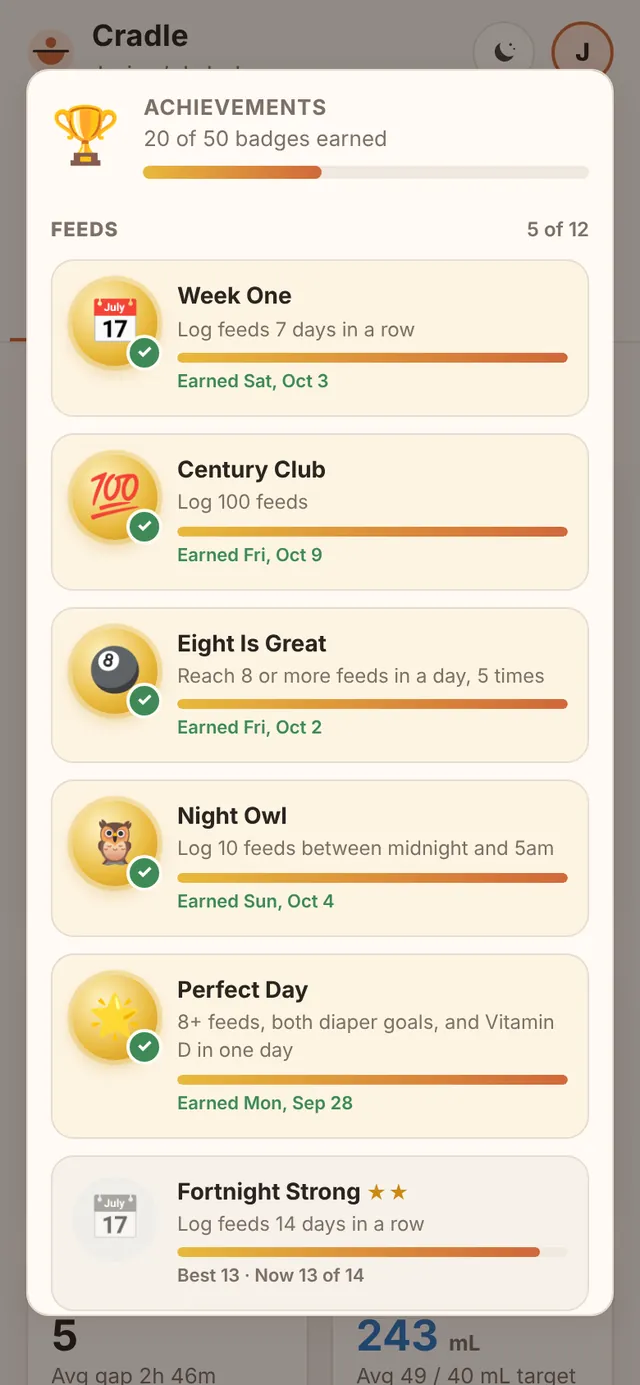
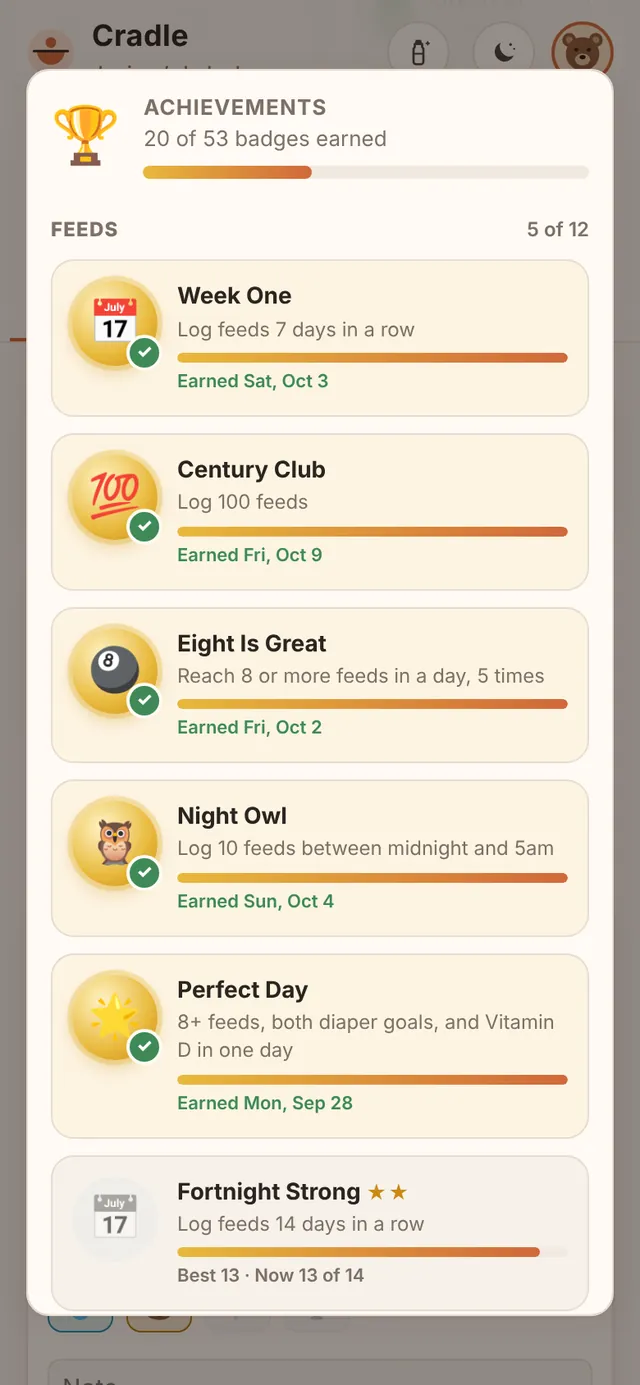
Overview: an app preview, not a triple-feeding explainer
- Hero: "The baby log the whole family shares", with History, the Log
  (center), and the Dashboard
- "What's inside": nine feature cards replace the triple-feed section
- Fun center figure stacks Stork Flight, Daily Word, and Bottle Catch
- New screenshots: bottle, stork, achievements (53); take.mjs retakes them
- Phones in the screenshot grid line up at the same height

Claude-Session: https://claude.ai/code/session_01C2LP9XX3HMhgrsmSLqk1xr

diff --git a/docs/overview.html b/docs/overview.html
@@ -78,15 +78,11 @@ a:focus-visible,button:focus-visible{outline:3px solid var(--accent); outline-of
   .fan:hover .p3{transform:translateX(66%) rotate(9deg) translateY(10px)}
 }
 
-/* triple-feed cycle */
-.cycle{display:grid; grid-template-columns:repeat(3,minmax(0,1fr)); gap:clamp(12px,2vw,20px); counter-reset:step}
-.step{background:var(--panel); border:1px solid var(--line); border-radius:20px; padding:24px; display:grid; gap:10px; position:relative}
-.step .num{font:700 13px/1 var(--mono); color:var(--muted)}
-.step .big{font:800 clamp(40px,5vw,56px)/1 var(--display); letter-spacing:-.03em}
-.step:nth-child(1) .big{color:var(--accent)} .step:nth-child(2) .big{color:var(--bottle)} .step:nth-child(3) .big{color:var(--pump)}
-.step p{color:var(--muted); font-size:15px}
-.row-demo{margin-top:clamp(20px,3vw,28px); background:var(--panel); border:1px solid var(--line); border-radius:16px; padding:14px 18px; display:flex; flex-wrap:wrap; gap:10px 18px; align-items:center; font-size:14px}
-.row-demo .t{font:700 15px/1 var(--mono)}
+/* features */
+.feats{display:grid; grid-template-columns:repeat(3,minmax(0,1fr)); gap:clamp(12px,2vw,20px)}
+.feat{background:var(--panel); border:1px solid var(--line); border-radius:20px; padding:22px; display:grid; gap:8px; align-content:start}
+.feat .fi{font-size:28px; line-height:1}
+.feat p{color:var(--muted); font-size:15px}
 .tag{display:inline-flex; align-items:center; gap:6px; padding:6px 10px; border-radius:10px; background:var(--panel2); font-weight:600}
 .tag.b{color:var(--bottle)} .tag.p{color:var(--pump)} .tag.w{color:var(--wet)} .tag.s{color:var(--stool)} .tag.a{color:var(--accent-ink)} .tag.v{color:var(--sun)}
 
@@ -106,10 +102,17 @@ a:focus-visible,button:focus-visible{outline:3px solid var(--accent); outline-of
 
 /* screens gallery */
 .screens{display:grid; grid-template-columns:repeat(4,minmax(0,1fr)); gap:clamp(18px,3vw,32px) clamp(14px,2.4vw,28px)}
-.screens figure{margin:0; display:grid; justify-items:center; text-align:center}
+.screens figure{margin:0; display:grid; justify-items:center; align-content:start; text-align:center}
+.screens .phone{align-self:start}
 .screens .phone{--w:100%; width:100%; border-radius:30px; padding:8px}
 .screens .phone img{border-radius:23px}
 .screens .cap{margin-inline:auto}
+.pstack{position:relative; width:100%; aspect-ratio:390/844}
+.pstack .phone{position:absolute; top:0; left:0; --w:100%; width:76%; border-radius:24px; padding:6px}
+.pstack .phone img{border-radius:18px}
+.pstack .s1{transform:translate(-2%,9%) rotate(-8deg); z-index:1}
+.pstack .s2{transform:translate(14%,5%) rotate(-2deg); z-index:2}
+.pstack .s3{transform:translate(31%,1%) rotate(4deg); z-index:3}
 
 /* night band */
 .night{background:radial-gradient(1200px 500px at 80% -10%, var(--night2), transparent 60%), var(--night); color:var(--night-ink); position:relative; overflow:hidden}
@@ -181,11 +184,12 @@ footer code{font-family:var(--mono); font-size:13px}
   .screens{grid-template-columns:repeat(2,minmax(0,1fr))}
   .facts{grid-template-columns:repeat(2,minmax(0,1fr))}
   .fine{grid-template-columns:minmax(0,1fr)}
+  .feats{grid-template-columns:repeat(2,minmax(0,1fr))}
   .calm-row{grid-template-columns:minmax(0,1fr); justify-items:center}
   .calm-row > div{justify-self:stretch}
 }
 @media (max-width:560px){
-  .cycle{grid-template-columns:minmax(0,1fr)}
+  .feats{grid-template-columns:minmax(0,1fr)}
   .fan{height:400px}
   .fan .phone{--w:150px}
   .fan .p1{transform:translateX(-62%) rotate(-7deg) translateY(14px)}
@@ -207,43 +211,42 @@ footer code{font-family:var(--mono); font-size:13px}
   </div>
   <div class="hero-grid">
     <div>
-      <p class="eyebrow">Baby log</p>
-      <h1 style="margin-top:14px">Every feed, every diaper, <em>every 3am</em>, on one row.</h1>
-      <p class="lede">Nurse, bottle top-up, pump, wet, stool, Vitamin D, and bath time, logged in a few taps and shared live with everyone on feeding duty. Built for tired hands, dark rooms, and the pediatrician's questions.</p>
+      <p class="eyebrow">Family baby log</p>
+      <h1 style="margin-top:14px">The baby log <em>the whole family</em> shares.</h1>
+      <p class="lede">Feeds, diapers, pumping, Vitamin D, baths, and weights, logged in a few taps and on every family phone within seconds. Big buttons for 3am, clear trends for the pediatrician, and a few games for the waiting moments.</p>
       <div class="chips">
         <span class="chip"><i style="background:var(--accent)"></i>Works offline</span>
         <span class="chip"><i style="background:var(--bottle)"></i>Syncs between family phones</span>
         <span class="chip"><i style="background:var(--good)"></i>Your own database</span>
         <span class="chip"><i style="background:var(--pump)"></i>Installs like an app</span>
+        <span class="chip"><i style="background:var(--stool)"></i>Feed-due notifications</span>
       </div>
     </div>
-    <div class="fan" aria-label="Cradle on three phones: the Log, Night shift, and the Dashboard">
-      <div class="phone p1"><img src="screenshots/log.webp" alt="The Log tab: time since last feed, next feed due, and the pump timer"></div>
-      <div class="phone p2"><img src="screenshots/night.webp" alt="Night shift: a dim screen with large buttons for breast side, bottle, and diapers"></div>
+    <div class="fan" aria-label="Cradle on three phones: History, the Log, and the Dashboard">
+      <div class="phone p1"><img src="screenshots/hist.webp" alt="History: a card for each day with feeds, volumes, and diaper goals"></div>
+      <div class="phone p2"><img src="screenshots/log.webp" alt="The Log: time since the last feed, which side to start on, when the next feed is due"></div>
       <div class="phone p3"><img src="screenshots/dash.webp" alt="The Dashboard: feeds per day, bottle and pump totals, time between feeds"></div>
     </div>
   </div>
 </header>
 
 <main>
-<section class="wrap" id="cycle">
+<section class="wrap" id="features">
   <div class="sec-head">
-    <p class="eyebrow">The triple-feed cycle</p>
-    <h2>Three parts of one feed, logged as one row.</h2>
-    <p class="lede">Triple feeding means nursing, then a bottle top-up, then pumping, every few hours, around the clock. Cradle keeps the whole session together so the totals add up the way your care team asks about them. Only nursing, or only bottles? Turn off what you don’t use in Settings, and it’s hidden everywhere.</p>
+    <p class="eyebrow">What's inside</p>
+    <h2>Everything the first months ask you to keep track of.</h2>
+    <p class="lede">One app for the whole routine, set up for how your family feeds. Turn off breast, bottle, or pumping in Settings if you don't use them, and they disappear everywhere.</p>
   </div>
-  <div class="cycle">
-    <div class="step"><span class="num">1 · Nurse</span><span class="big">L + R</span><p>Tap the sides you used. The first side gets a dot, so you know where to start next time. A ▶ timer fills in the minutes, and a slider splits them between sides.</p></div>
-    <div class="step"><span class="num">2 · Top up</span><span class="big">45 mL</span><p>Bottle volume, with a bar that fills toward your target. Night shift adjusts it in 5 mL steps.</p></div>
-    <div class="step"><span class="num">3 · Pump</span><span class="big">70 mL</span><p>Pumped volume, plus a pump timer with a green arc for your 15 to 20 minute window.</p></div>
-  </div>
-  <div class="row-demo" aria-label="Example row">
-    <span class="t">7:05am</span>
-    <span class="tag a">L + R · 28 min</span>
-    <span class="tag b">Bottle 49 mL</span>
-    <span class="tag p">Pump 75 mL</span>
-    <span class="tag s">Stool</span>
-    <span class="tag v">☀ Vitamin D</span>
+  <div class="feats">
+    <div class="feat"><span class="fi">🍼</span><h3>Feeds, your way</h3><p>Breast with a timer and which side to start on, bottles in mL, and pumping, alone or together. Triple feeding fits on one row.</p></div>
+    <div class="feat"><span class="fi">🧷</span><h3>Diapers with goals</h3><p>Wet and stool on each feed or on their own, with daily goals that grow with your baby's day of life.</p></div>
+    <div class="feat"><span class="fi">⚖</span><h3>Weight and growth</h3><p>Visit weights and weighted feeds in grams or lb and oz, charted against birth weight.</p></div>
+    <div class="feat"><span class="fi">☀</span><h3>Vitamin D and baths</h3><p>A daily Vitamin D check with streaks, and sponge or tub baths with a note.</p></div>
+    <div class="feat"><span class="fi">🌙</span><h3>Night shift</h3><p>A dim screen with huge buttons for one-handed feeds in the dark, in warm, moonlight, or red colors.</p></div>
+    <div class="feat"><span class="fi">📊</span><h3>Dashboard and doctor report</h3><p>7 or 14 days of trends, insights, and a one-page report to bring to appointments.</p></div>
+    <div class="feat"><span class="fi">👪</span><h3>Family sharing</h3><p>Everyone gets their own login and picture, the family shares one log, and changes appear on every phone in seconds.</p></div>
+    <div class="feat"><span class="fi">📣</span><h3>Next feed, on time</h3><p>When the next feed is due, an in-app alarm, and optional notifications even when Cradle is closed.</p></div>
+    <div class="feat"><span class="fi">🎮</span><h3>A little fun</h3><p>Daily Word, Bottle Catch, and Stork Flight with family high scores, plus 53 achievements and seasonal themes.</p></div>
   </div>
 </section>
 
@@ -279,7 +282,11 @@ footer code{font-family:var(--mono); font-size:13px}
     <figure><div class="phone"><img src="screenshots/log.webp" alt="Log tab"></div><figcaption class="cap"><b>Log</b>Time since the last feed, which side to start on, when the next feed is due, with an optional notification even when Cradle is closed.</figcaption></figure>
     <figure><div class="phone"><img src="screenshots/dash.webp" alt="Dashboard tab"></div><figcaption class="cap"><b>Dashboard</b>7 or 14 days of trends, with chips to show one topic at a time. Today counts as in progress until midnight.</figcaption></figure>
     <figure><div class="phone"><img src="screenshots/zoom.webp" alt="An enlarged dashboard chart with the details of one feed"></div><figcaption class="cap"><b>Tap any chart</b>Enlarge it, then tap a day or a single feed for the details.</figcaption></figure>
-    <figure><div class="phone"><img src="screenshots/word.webp" alt="Daily Word: a grid of letter tiles in green, yellow, and gray above an on-screen keyboard"></div><figcaption class="cap"><b>Fun center</b>Daily Word, a new word every day at 4, 5, or 6 letters, plus two arcade games: Bottle Catch and Stork Flight. High scores with your initials.</figcaption></figure>
+    <figure><div class="pstack" aria-label="The three Fun center games, stacked">
+      <div class="phone s1"><img src="screenshots/bottle.webp" alt="Bottle Catch: a basket catching falling bottles"></div>
+      <div class="phone s2"><img src="screenshots/word.webp" alt="Daily Word: letter tiles in green, yellow, and gray"></div>
+      <div class="phone s3"><img src="screenshots/stork.webp" alt="Stork Flight: a stork carrying a bundle between clouds and chimneys"></div>
+    </div><figcaption class="cap"><b>Fun center</b>Stork Flight, Daily Word (a new word every day at 4, 5, or 6 letters), and Bottle Catch, with high scores for the family.</figcaption></figure>
     <figure><div class="phone"><img src="screenshots/hist.webp" alt="History tab with a card for each day"></div><figcaption class="cap"><b>History</b>Every day as a card or a table, with diaper goals checked off.</figcaption></figure>
     <figure><div class="phone"><img src="screenshots/ach.webp" alt="Achievements list with earned badges"></div><figcaption class="cap"><b>Achievements</b>Fifty-three badges in eight groups, with starred higher tiers. A day in progress never breaks a streak.</figcaption></figure>
     <figure><div class="phone"><img src="screenshots/bath.webp" alt="A bath row on the Log with Sponge and Tub choices"></div><figcaption class="cap"><b>Bath time</b>Sponge or tub, with a note. Baths never count as feeds, and the Dashboard shows when the last one was.</figcaption></figure>

diff --git a/CHANGELOG.md b/CHANGELOG.md
@@ -1,5 +1,13 @@
 # Changelog
 
+## Product overview refresh
+
+No change to the app.
+- The overview now reads like an app preview: "The baby log the whole family shares", with the Log in the middle of the hero and History and the Dashboard beside it
+- A "What's inside" grid of nine features replaces the triple-feeding explainer (triple feeding is one line under Feeds, your way)
+- The Fun center picture stacks all three games, Stork Flight on top
+- New screenshots for Bottle Catch, Stork Flight, and Achievements (53 badges); `tools/screenshots/take.mjs` retakes them
+
 ## v1.24
 
 **The product overview is on the web**
